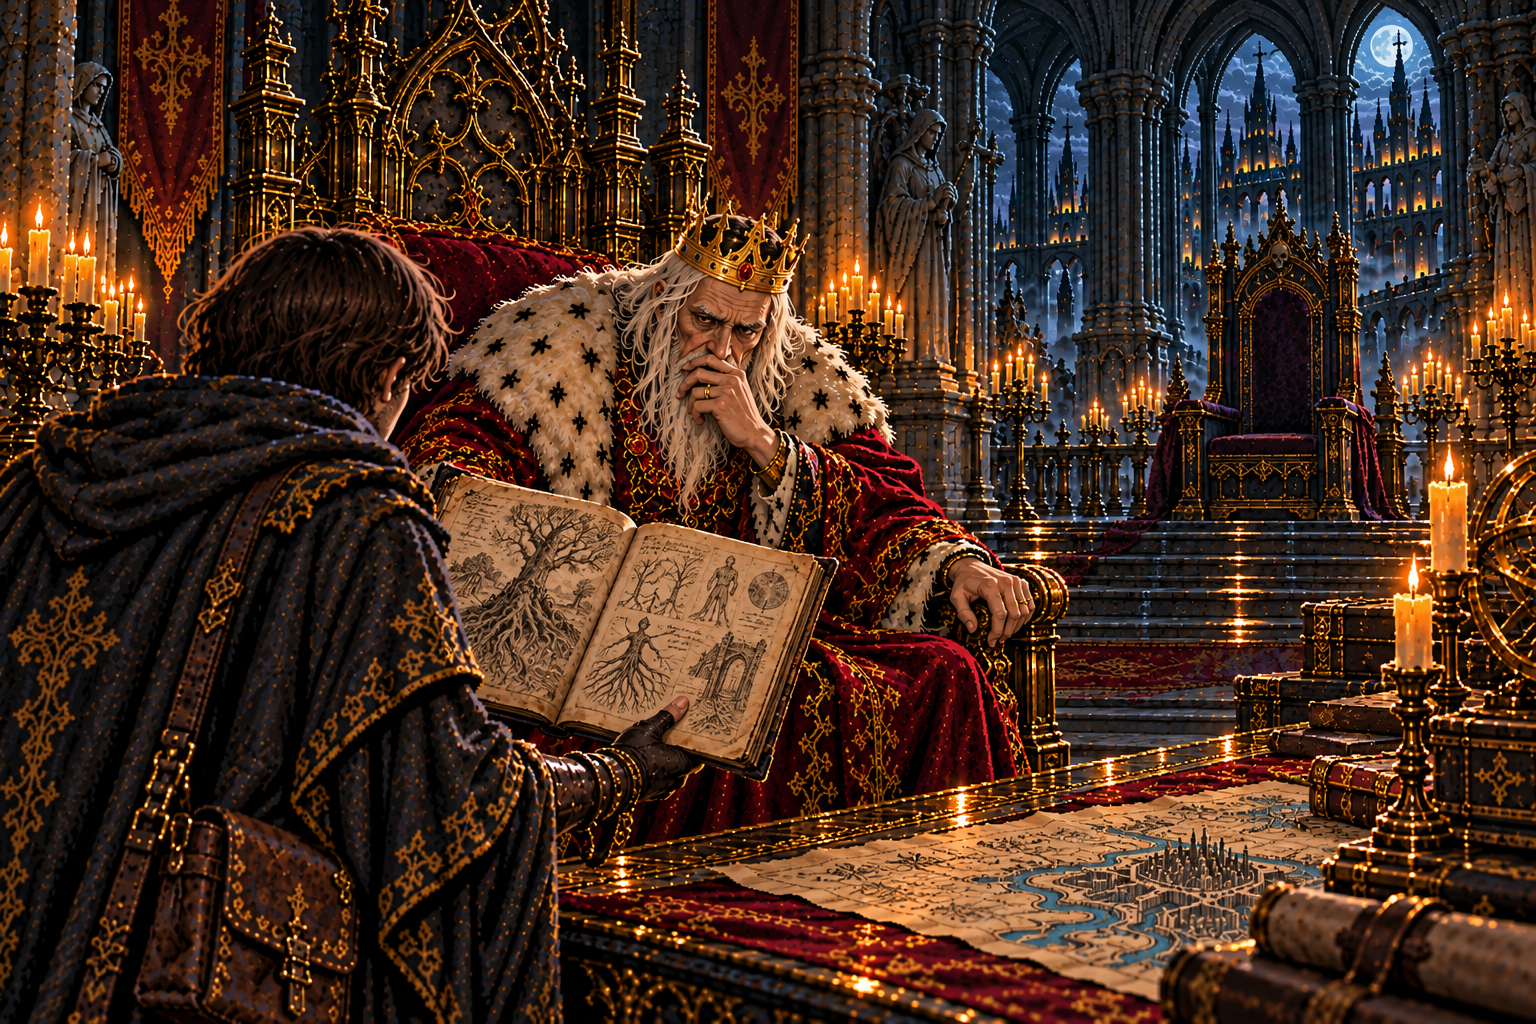
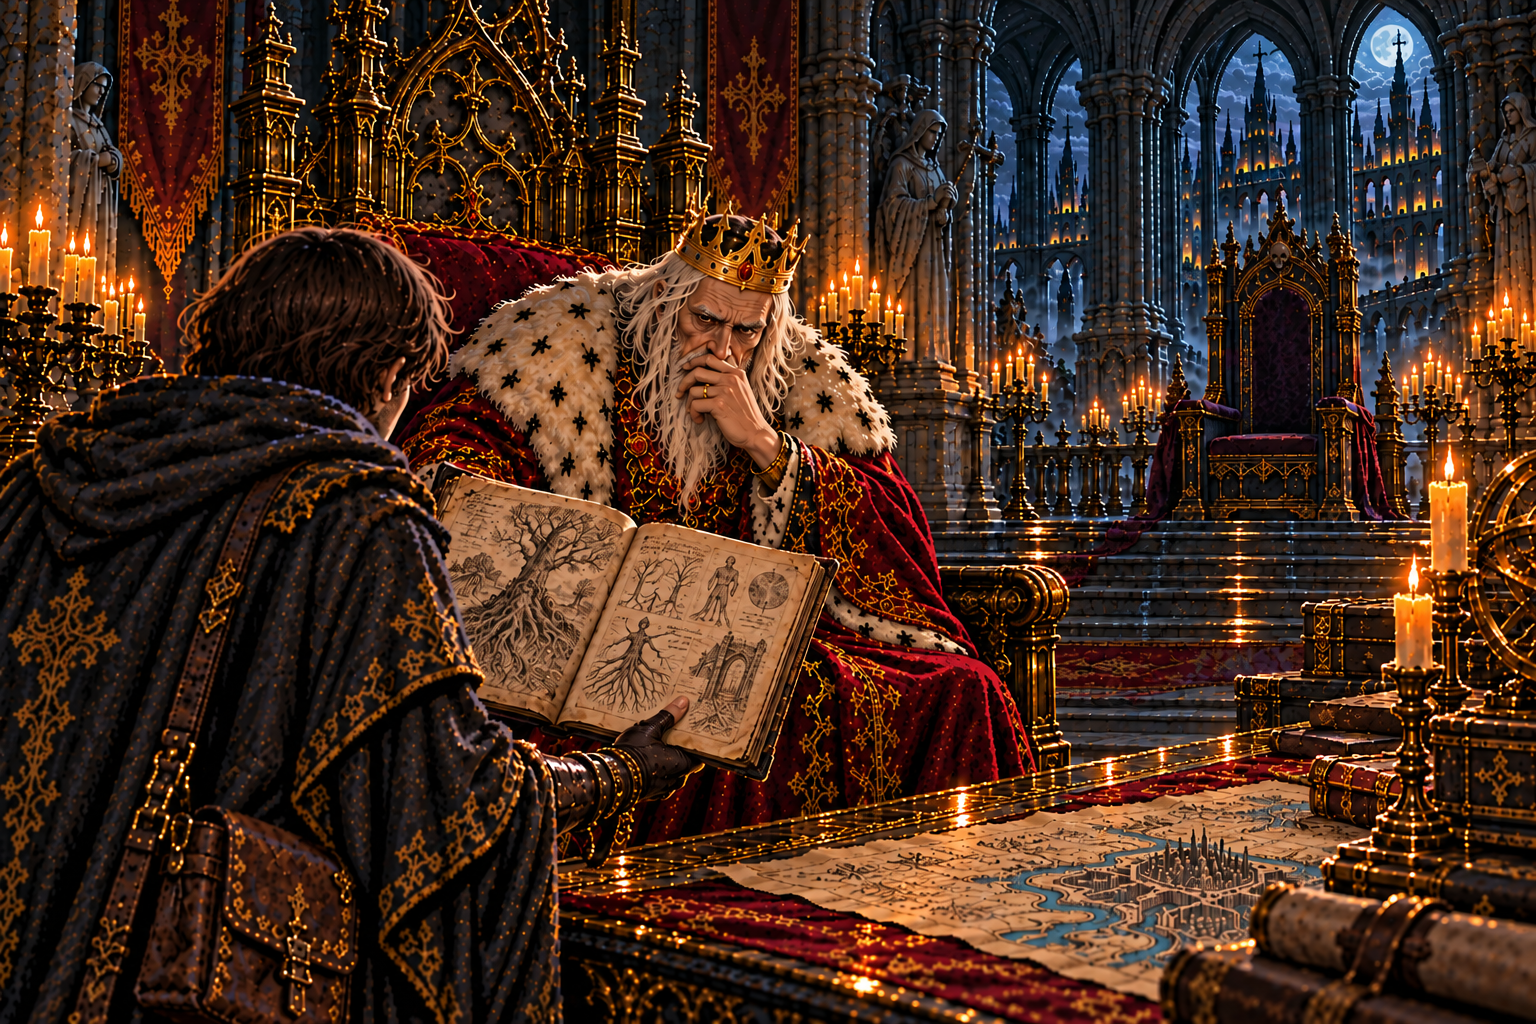
fix: 師の師の挿絵で王の重複した左腕を修正

diff --git a/docs/art/codex-story-art-brief.md b/docs/art/codex-story-art-brief.md
@@ -218,6 +218,15 @@ Character reference sheet on a plain dark slate-blue background with soft even l
 
 ### A. 必須 (物語の筋や正典と食い違う)
 
+**A-39. 第三章 report_w11「師の師」王の重複した左腕の修正** `art/story-review/chapter3/report_w11.png` (済)
+
+- ユーザー指定: 「師の師」の王の左手が2本ある。口元に添えた左手を残し、画面右下の肘掛けを握る余分な左手・前腕を取り除く。衣のひだで自然につなぎ、ほかは保つ。
+
+```text
+...except: correct ONLY the king's duplicated left arm. Preserve his left hand touching his mouth and its connected bent arm. Remove the extra left hand gripping the armrest at image-right near x=990,y=600 and the attached extra forearm and sleeve below the mouth-touching arm. Replace this extra limb with natural folds of his red embroidered robe and white black-spotted ermine cape lying close to his torso and lap; leave the carved armrest visible and unoccupied. The king's right arm remains concealed behind the open book at image-left; do not add a hand. Preserve his face, crown, beard, pensive posture, apprentice, open book, map, throne, background chair, architecture, composition, fine pixel texture, colors and lighting exactly. Make no other changes.
+```
+
+
 
 **A-38. 第二章 report_w09「先代という仮面」（ゲーム内「先代の王」）** `art/story-review/chapter2/report_w09.png` (済)
 - ユーザー指定 (2026-10-15): 弟子が持つ手紙を、`art/story-review/chapter2/mem_w09.png`「砦を捧げた書状」と同じ書状にする。赤い封蝋を横に二つ並べ、左を金の王冠の王家の紋、右を参照と同じ金の宰相府の紋にし、赤金の組紐も合わせる。手に持つ角度と縮尺に合わせる。
